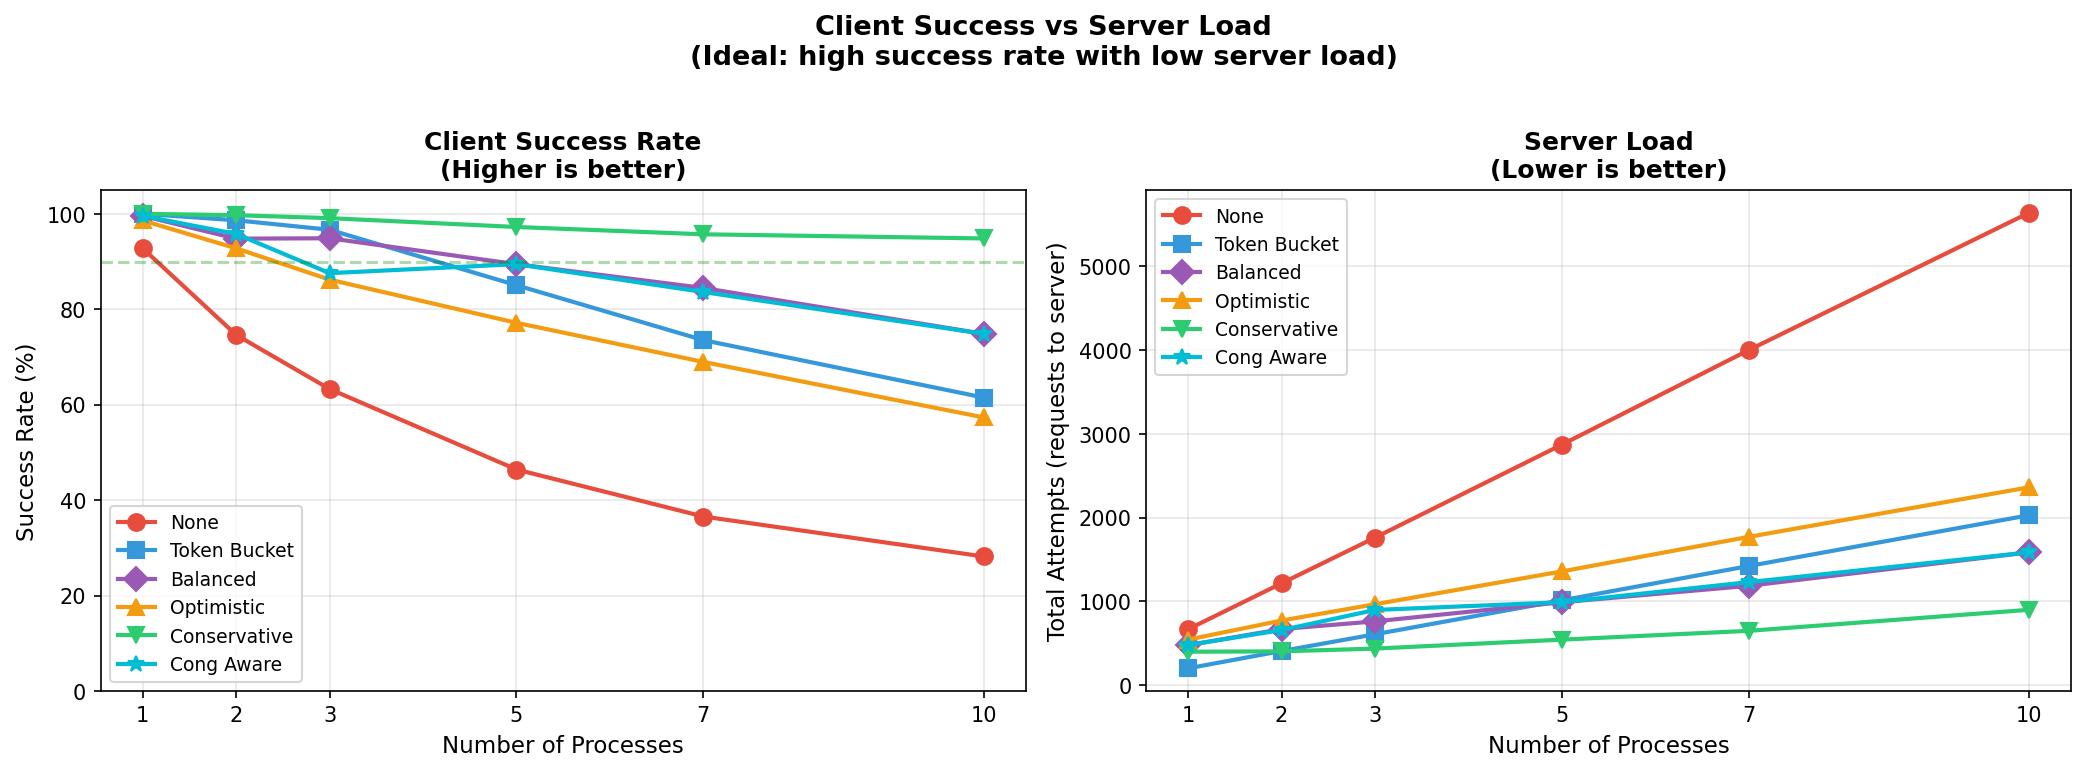
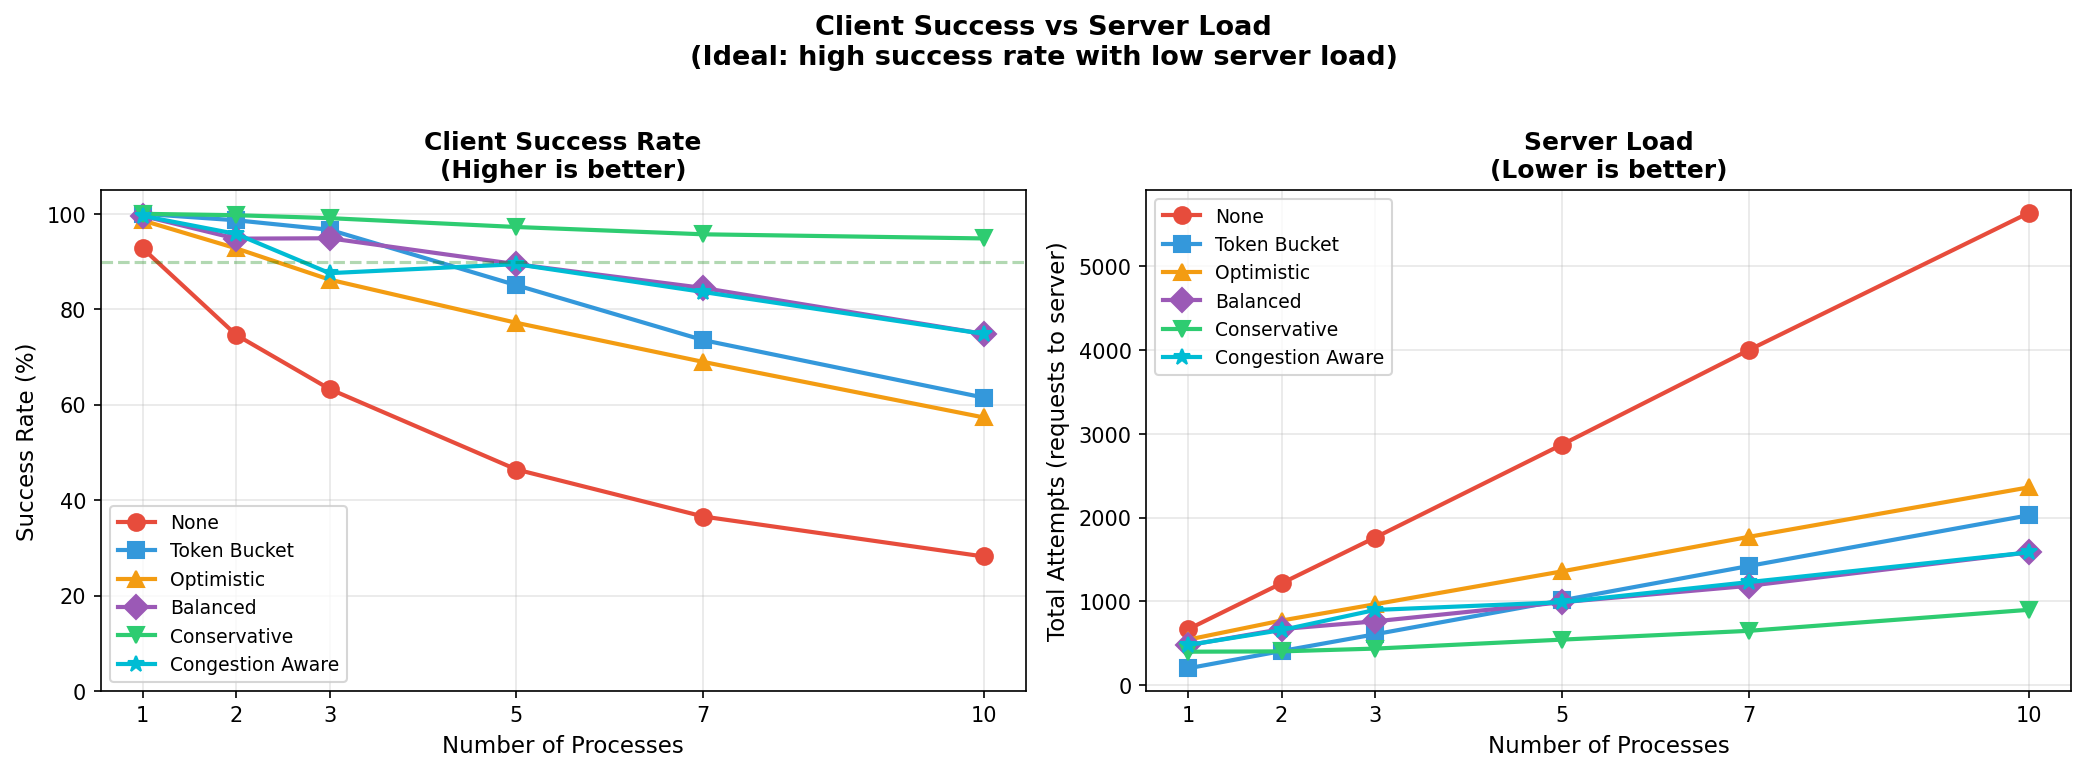
Simulations: improvements;

diff --git a/simulations/scenarios/sweep_test.py b/simulations/scenarios/sweep_test.py
@@ -49,15 +49,6 @@ STRATEGIES = {
         time_window=60.0,
         max_wait_time=45.0,
     ),
-"balanced": RateLimitConfig(
-        strategy="adaptive",
-        max_requests=100,
-        time_window=60.0,
-        max_wait_time=45.0,
-        min_rate_floor=0.1,
-        penalty_factor=0.30,
-        recovery_factor=0.05,
-    ),
     "optimistic": RateLimitConfig(
         strategy="adaptive",
         max_requests=100,
@@ -66,6 +57,15 @@ STRATEGIES = {
         min_rate_floor=0.3,
         penalty_factor=0.15,
         recovery_factor=0.1,
+    ),
+    "balanced": RateLimitConfig(
+        strategy="adaptive",
+        max_requests=100,
+        time_window=60.0,
+        max_wait_time=45.0,
+        min_rate_floor=0.1,
+        penalty_factor=0.30,
+        recovery_factor=0.05,
     ),
     "conservative": RateLimitConfig(
         strategy="adaptive",
@@ -78,7 +78,7 @@ STRATEGIES = {
     ),
     # Congestion-Aware (Little's Law) with SDK defaults
     # Uses same AIMD params as balanced + pressure-based backpressure
-    "cong_aware": RateLimitConfig(
+    "congestion_aware": RateLimitConfig(
         strategy="congestion_aware",
         max_requests=100,
         time_window=60.0,

diff --git a/simulations/run_sweep.py b/simulations/run_sweep.py
@@ -119,7 +119,7 @@ def create_line_charts(
         "optimistic": "#f39c12",   # Orange
         "balanced": "#9b59b6",     # Purple
         "conservative": "#2ecc71", # Green
-        "cong_aware": "#00bcd4",   # Cyan (congestion_aware)
+        "congestion_aware": "#00bcd4",   # Cyan (congestion_aware)
     }
 
     # Line styles
@@ -129,7 +129,7 @@ def create_line_charts(
         "optimistic": "^",
         "balanced": "D",
         "conservative": "v",
-        "cong_aware": "*",
+        "congestion_aware": "*",
     }
 
     # ==========================================================================

diff --git a/simulations/README.md b/simulations/README.md
@@ -37,7 +37,7 @@ ls results/latest/*.png
 | `optimistic` | AIMD, aggressive | max_wait=20s, min_floor=30%, penalty=15% |
 | `balanced` | AIMD, sensible defaults | max_wait=45s, min_floor=10%, penalty=30% |
 | `conservative` | AIMD, stability-first | max_wait=120s, min_floor=5%, penalty=50% |
-| `cong_aware` | AIMD + Little's Law | Same as balanced + pressure_threshold=2.0 |
+| `congestion_aware` | AIMD + Little's Law | Same as balanced + pressure_threshold=2.0 |
 
 ## Contention Levels
 
